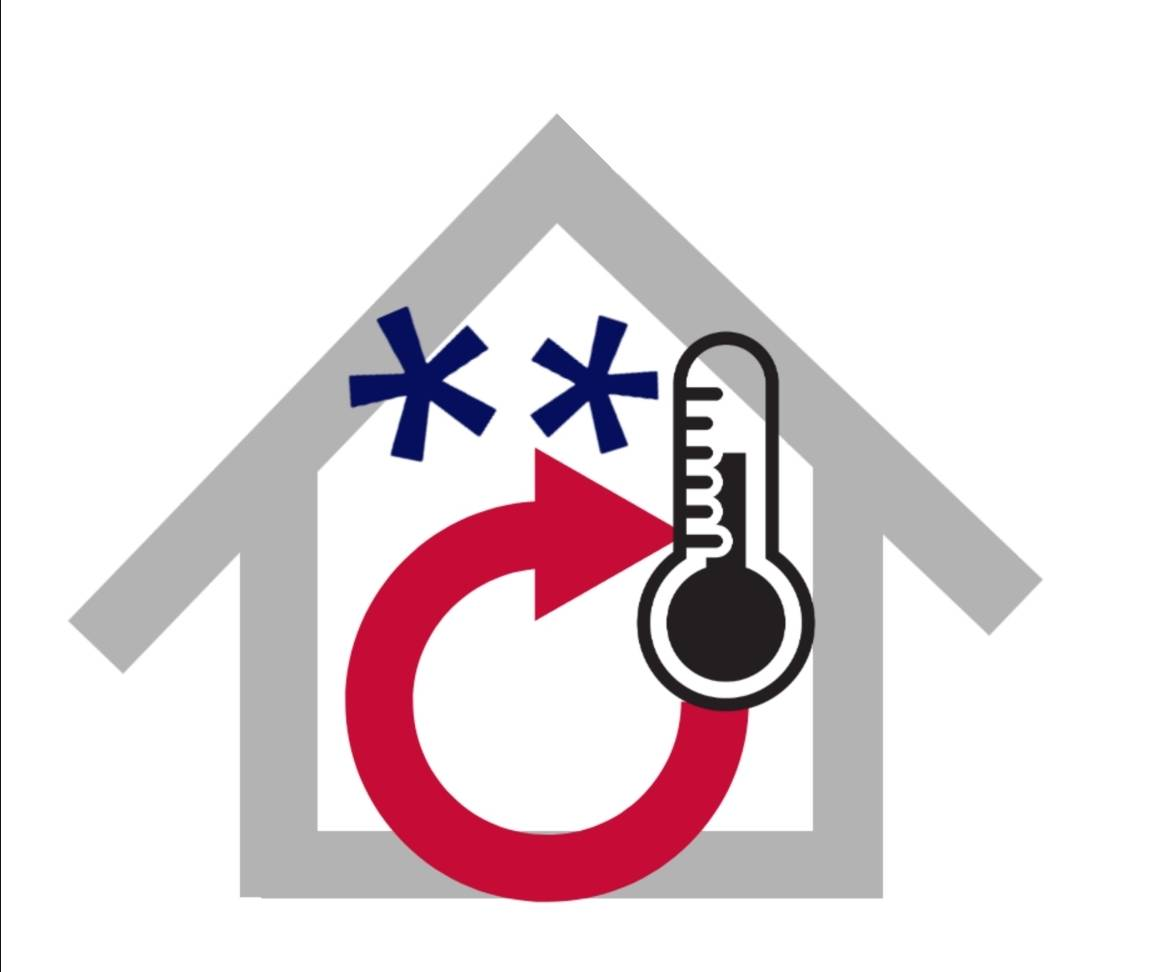
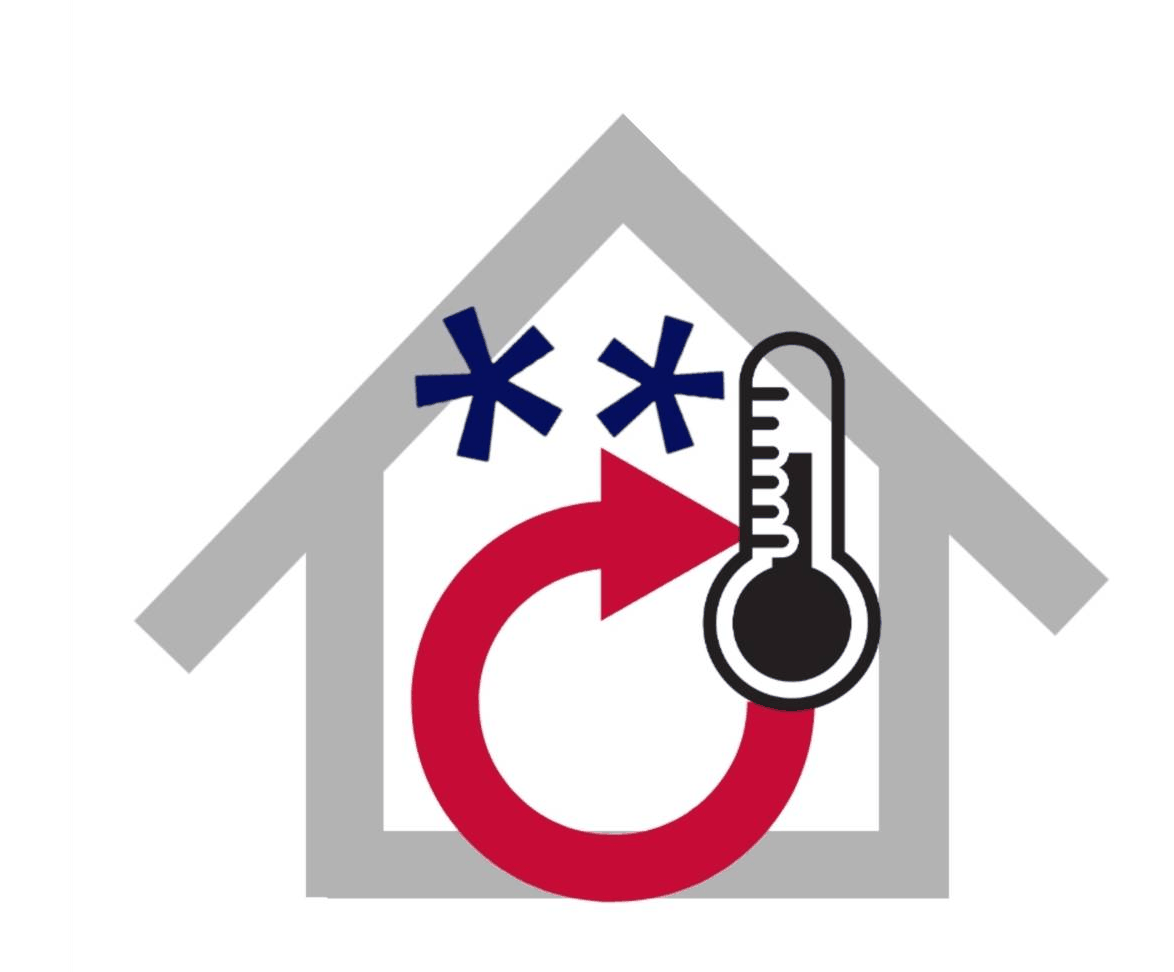
登入頁改版：標題改「振佳空調管理系統」+ 登入圖置中修正 + CSS 速調參數
- 全站標題「振佳空調庫存管理系統」→「振佳空調管理系統」（login.html 3 處 + index.html 2 處 + style.css 註解）
- login-hvac.png 修復：清除左緣 1px 黑線瑕疵 + 內容水平校正置中（原偏左 66px）+ 轉真 PNG 優化（96KB）
- login.html 加 CSS 速調參數 translateX/translateY（手機 .brand .logo img + 桌機 .big-logo img，家豪微調至 X -2/-3、Y -4）
- 前端資產測試更新：標題斷言改新名 + 新增 3 測試（圖片置中像素驗證/無手動版本號/速調參數存在）
- 247 passed

Changed region(s): [[0.0613, 0.1235, 0.9506, 0.9259]]

diff --git a/static/login.html b/static/login.html
@@ -3,7 +3,7 @@
 <head>
 <meta charset="UTF-8">
 <meta name="viewport" content="width=device-width, initial-scale=1.0">
-<title>🔐 登入｜振佳空調庫存管理系統</title>
+<title>🔐 登入｜振佳空調管理系統</title>
 <style>
   /* ============ 全域 ============ */
   * { box-sizing: border-box; margin: 0; padding: 0; }
@@ -52,7 +52,8 @@
     box-shadow: 0 0 0 5px rgba(255,255,255,0.06), 0 0 24px rgba(255,255,255,0.20), 0 8px 18px rgba(0,0,0,0.4);
     overflow: hidden;
   }
-  .brand .logo img { width: 100%; height: 100%; object-fit: contain; display: block; }
+  .brand .logo img { width: 100%; height: 100%; object-fit: contain; display: block;
+    transform: translateX(-2px) translateY(-4px); /* 速調登入圖位置：X 負=左/正=右，Y 負=上/正=下，單位 px */ }
   .brand h1 { font-size: 20px; font-weight: 700; color: #F8FAFC; }
   .brand .sub { font-size: 12.5px; color: #94A3B8; margin-top: 4px; }
 
@@ -198,7 +199,8 @@
       box-shadow: 0 0 0 6px rgba(255,255,255,0.06), 0 0 30px rgba(255,255,255,0.20), 0 10px 24px rgba(0,0,0,0.4);
       overflow: hidden;
     }
-    .brand-panel-inner .big-logo img { width: 100%; height: 100%; object-fit: contain; display: block; }
+    .brand-panel-inner .big-logo img { width: 100%; height: 100%; object-fit: contain; display: block;
+      transform: translateX(-3px) translateY(-4px); /* 速調登入圖位置：X 負=左/正=右，Y 負=上/正=下，單位 px */ }
     .brand-panel-inner h2 { font-size: 24px; font-weight: 800; margin-bottom: 12px; }
     .brand-panel-inner p { font-size: 14px; color: #94A3B8; line-height: 1.8; }
     .brand-panel-inner .geo {
@@ -228,7 +230,7 @@
       <div class="brand-panel">
         <div class="brand-panel-inner">
           <div class="big-logo"><img src="/static/img/login-hvac.png" alt="振佳空調"></div>
-          <h2>振佳空調庫存管理系統</h2>
+          <h2>振佳空調管理系統</h2>
           <p>冷凍空調材料庫存管理<br>單一材料・整組・位置追蹤・盤點</p>
           <div class="geo">▣ ▤ ▦</div>
         </div>
@@ -239,7 +241,7 @@
         <div class="login-card">
           <div class="brand">
             <div class="logo"><img src="/static/img/login-hvac.png" alt="振佳空調"></div>
-            <h1>振佳空調庫存管理系統</h1>
+            <h1>振佳空調管理系統</h1>
             <div class="sub">請登入以繼續</div>
           </div>
 

diff --git a/static/index.html b/static/index.html
@@ -3,7 +3,7 @@
 <head>
 <meta charset="UTF-8">
 <meta name="viewport" content="width=device-width, initial-scale=1.0">
-<title>振佳空調庫存管理系統</title>
+<title>振佳空調管理系統</title>
 <!-- ============================================================
      資源版本號（?v=N）統一說明：
      本檔資源「不寫」版本號（刻意保持乾淨）——對外服務時，
@@ -20,7 +20,7 @@
 <div class="topbar">
   <div class="topbar-row">
     <div>
-      <h1><img src="/static/img/logo-zhenjia.png" alt="振佳空調" class="topbar-logo"> 振佳空調庫存管理系統</h1>
+      <h1><img src="/static/img/logo-zhenjia.png" alt="振佳空調" class="topbar-logo"> 振佳空調管理系統</h1>
       <div class="sub" id="sub-info">載入中…</div>
     </div>
     <div class="top-actions">

diff --git a/static/css/style.css b/static/css/style.css
@@ -1,4 +1,4 @@
-/* 振佳空調庫存管理系統 - 全域樣式 */
+/* 振佳空調管理系統 - 全域樣式 */
 /* 從 index.html 拆分出來 (2026-08-08 v8) */
   * { box-sizing: border-box; margin: 0; padding: 0; }
   body {

diff --git a/tests/test_frontend_assets.py b/tests/test_frontend_assets.py
@@ -298,20 +298,57 @@ def test_stockout_photo_column():
     css = read(CSS)
     assert ".so-photo" in css
 
-def test_title_is_zhenjia_inventory():
-    """標題改為「振佳空調庫存管理系統」（登入頁 + 主程式 + 分頁標題）"""
+def test_title_is_zhenjia_management():
+    """標題為「振佳空調管理系統」（2026-08-12 家豪/Sarah 定案：登入頁 + 主程式 + 分頁標題）"""
     login = read(LOGIN)
-    assert "振佳空調庫存管理系統" in login
+    assert "振佳空調管理系統" in login
+    assert "振佳空調庫存管理系統" not in login                # 舊標題不得殘留
     assert login.count("login-hvac.png") == 2                  # 大圖 + 手機小圖都換新
-    assert "<title>🔐 登入｜振佳空調庫存管理系統</title>" in login
+    assert "<title>🔐 登入｜振佳空調管理系統</title>" in login
     index = read(INDEX)
-    assert "<title>振佳空調庫存管理系統</title>" in index
-    assert "> 振佳空調庫存管理系統</h1>" in index              # topbar 標題
+    assert "<title>振佳空調管理系統</title>" in index
+    assert "> 振佳空調管理系統</h1>" in index              # topbar 標題
+
+def test_login_img_no_manual_cachebuster():
+    """登入圖版本號由 server 自動注入（_versioned_html 依檔案 mtime），原始 login.html 不得手動寫 ?v=——
+    2026-08-12 曾誤加 ?v=20260812 與方案 A 衝突（test_main.py::test_html_source_has_no_version_params 會抓），
+    快取問題由 mtime 注入解決：換圖存檔即版本號變、瀏覽器自動取新圖"""
+    html = read(LOGIN)
+    assert html.count("/static/img/login-hvac.png") == 2       # 桌機 big-logo + 手機 logo
+    assert "/static/img/login-hvac.png?v=" not in html        # 不得手動版本號
+
+def test_login_img_position_adjust_params():
+    """登入圖 CSS 速調參數存在（2026-08-12 家豪需求：translateX/translateY 手動微調）"""
+    html = read(LOGIN)
+    assert html.count("速調登入圖位置") == 2                   # 手機 .brand .logo img + 桌機 .big-logo img
+    assert "translateX(" in html and "translateY(" in html    # 參數本體不能整組被移除
+    assert "負=左/正=右" in html and "負=上/正=下" in html     # 註解規則存在（調整指引）
 
 def test_login_hvac_image_exists():
     """登入用圖片檔必須存在於 static/img/"""
     img = os.path.join(STATIC, "img", "login-hvac.png")
     assert os.path.exists(img), "static/img/login-hvac.png 不存在"
+
+
+def test_login_hvac_image_centered():
+    """登入圖內容水平置中 + 左緣無殘留黑線（2026-08-12 修復：原圖內容偏左 66px 且左緣有 1px 黑線，
+    已校正置中並清除黑線——此測試防未來換圖時重蹈覆轍）"""
+    try:
+        from PIL import Image
+    except ImportError:
+        pytest.skip("Pillow 不在環境，跳過圖片像素檢查")
+    img_path = os.path.join(STATIC, "img", "login-hvac.png")
+    im = Image.open(img_path).convert("L")
+    w, h = im.size
+    mask = im.point(lambda v: 255 if v < 245 else 0)           # 非白內容（含淺灰房子輪廓）
+    bbox = mask.getbbox()
+    assert bbox, "登入圖全白？"
+    left, top, right, bottom = bbox
+    center = (left + right) / 2
+    # 內容中心離畫布中心 < 5% 圖寬（目前偏右 33.5px = 2.85%，CSS translateX 補償）
+    assert abs(center - w / 2) < w * 0.05,         f"登入圖內容未置中: 中心 {center:.0f} vs 畫布中心 {w/2:.0f}（左留白 {left} / 右留白 {w-right}）"
+    # 左緣 x<50 全白：黑線已清除，防殘留線回歸
+    assert not mask.crop((0, 0, 50, h)).getbbox(), "登入圖左緣 x<50 有殘留像素（黑線未清乾淨？）"
 
 
 # ---------- login.html（登入頁 v11.1 響應式） ----------
